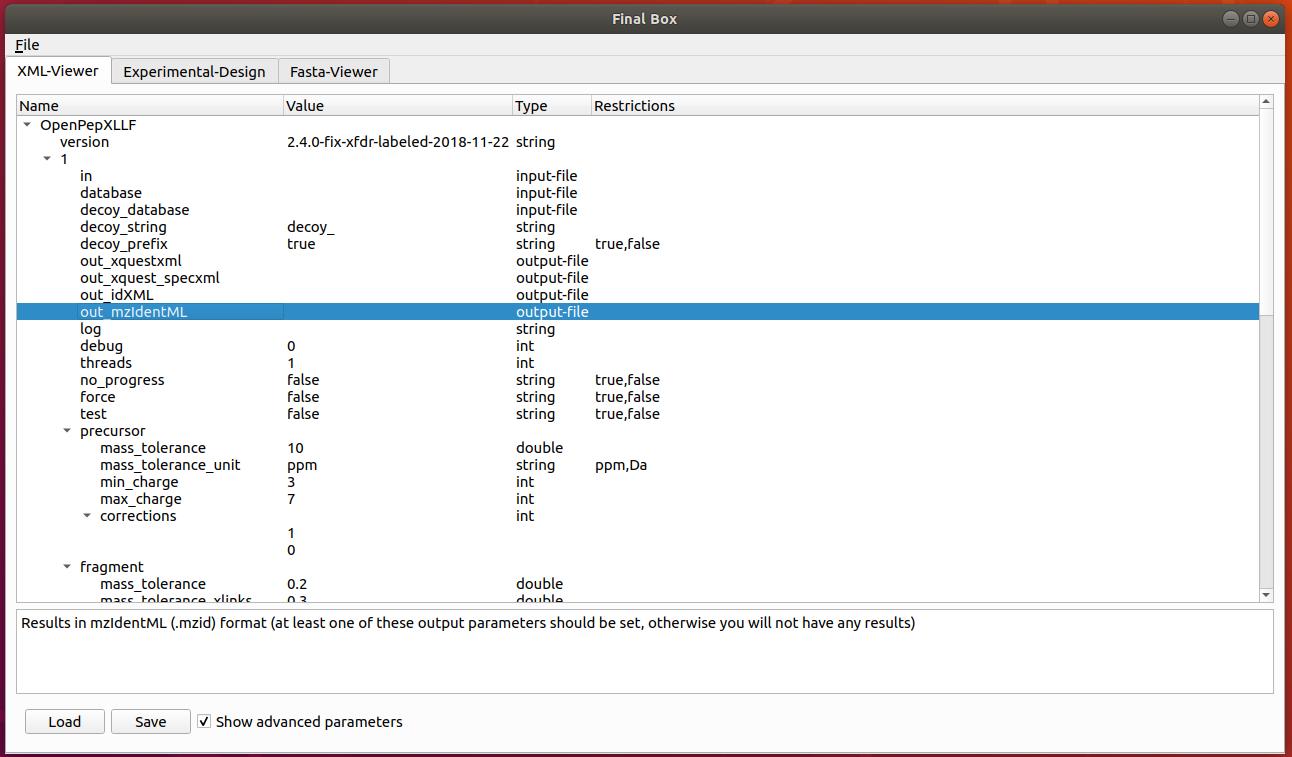
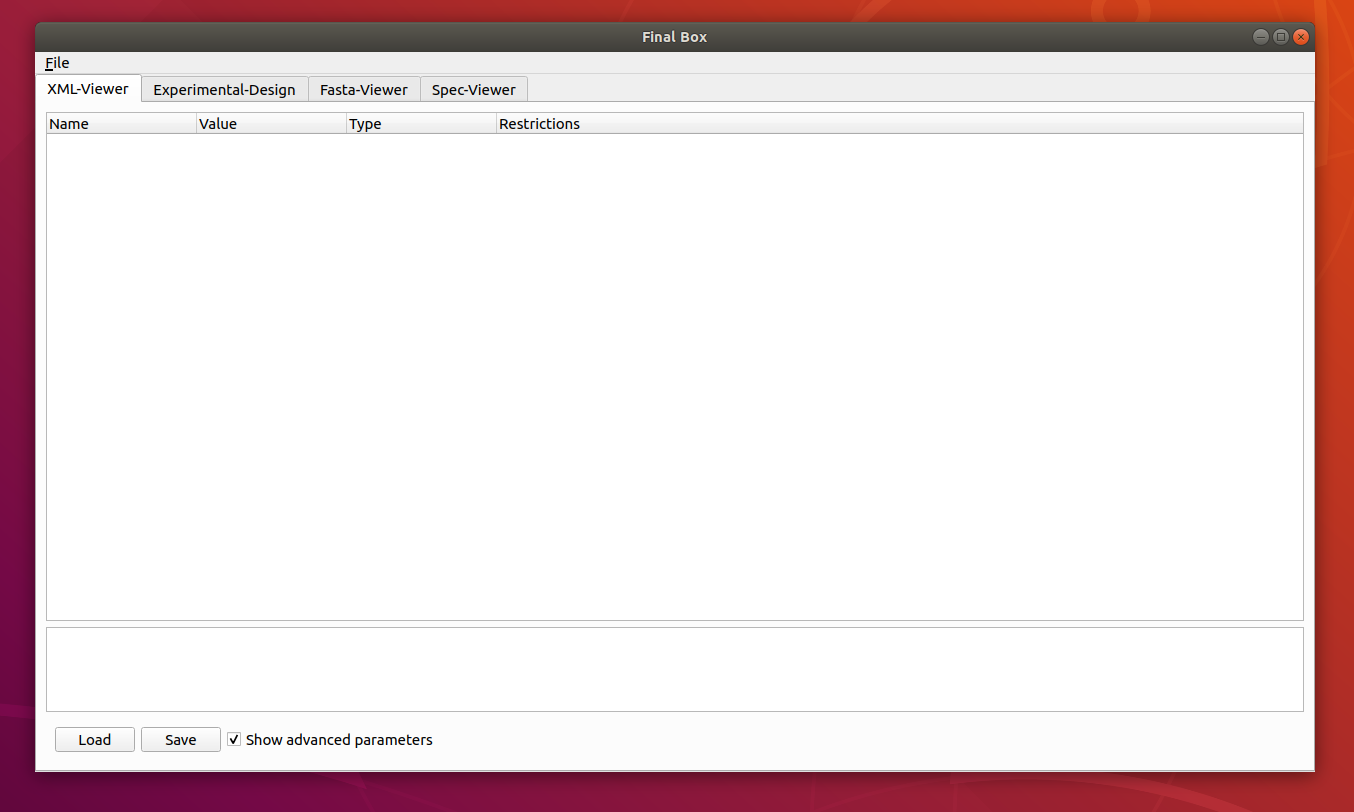
Update Readme

diff --git a/docs/pages/week8.md b/docs/pages/week8.md
@@ -13,12 +13,12 @@
     - Änderungen im TableEditor Widget:
         - Dataframe wurde nicht aktualisiert wenn von Hand Änderungen durchgeführt wurden. Dies führte zu Problemen beim Exportieren der Tabelle. ✔
 
-2. Jede Gruppe schickt bitte nochmal explizit den Github IO Pages Link per Email an alle Betreuer.
-3. Bis Mittwoch hat jede Gruppe einen sauberen(!) Pull Request erstellt, so dass die
-anderen Teams anfangen können zu arbeiten ✔
+2. Jede Gruppe schickt bitte nochmal explizit den Github IO Pages Link per Email an alle Betreuer.✔
+3. Bis Mittwoch hat jede Gruppe einen sauberen(!) Pull Request erstellt, so dass die anderen Teams anfangen können zu arbeiten.
+    - Erster PR musste noch mal angepasst werden
 
 4. Erstellt eine Hauptapplikation die den Code der anderen Gruppen jeweils mit verwendet.
-    - Fertige Version des XML - Viewers: Es wurden unsere beiden Applikation(XML - Viewer und Experimental Design) und der Fasta-viewer hinzugefügt:
+    - Fertige Version des XML - Viewers: Es wurden unsere beiden Applikation(XML - Viewer und Experimental Design)der Fasta-viewer und der Spec-viewer hinzugefügt:
      ![alt text](../Screenshots/Finalbox.png )
     - mzTabTablewidget von der dritten Gruppe wurde noch nicht eingefügt, da man die Datei noch nicht manuell  einlesen kann, sondern der path angegeben werden
      muss
